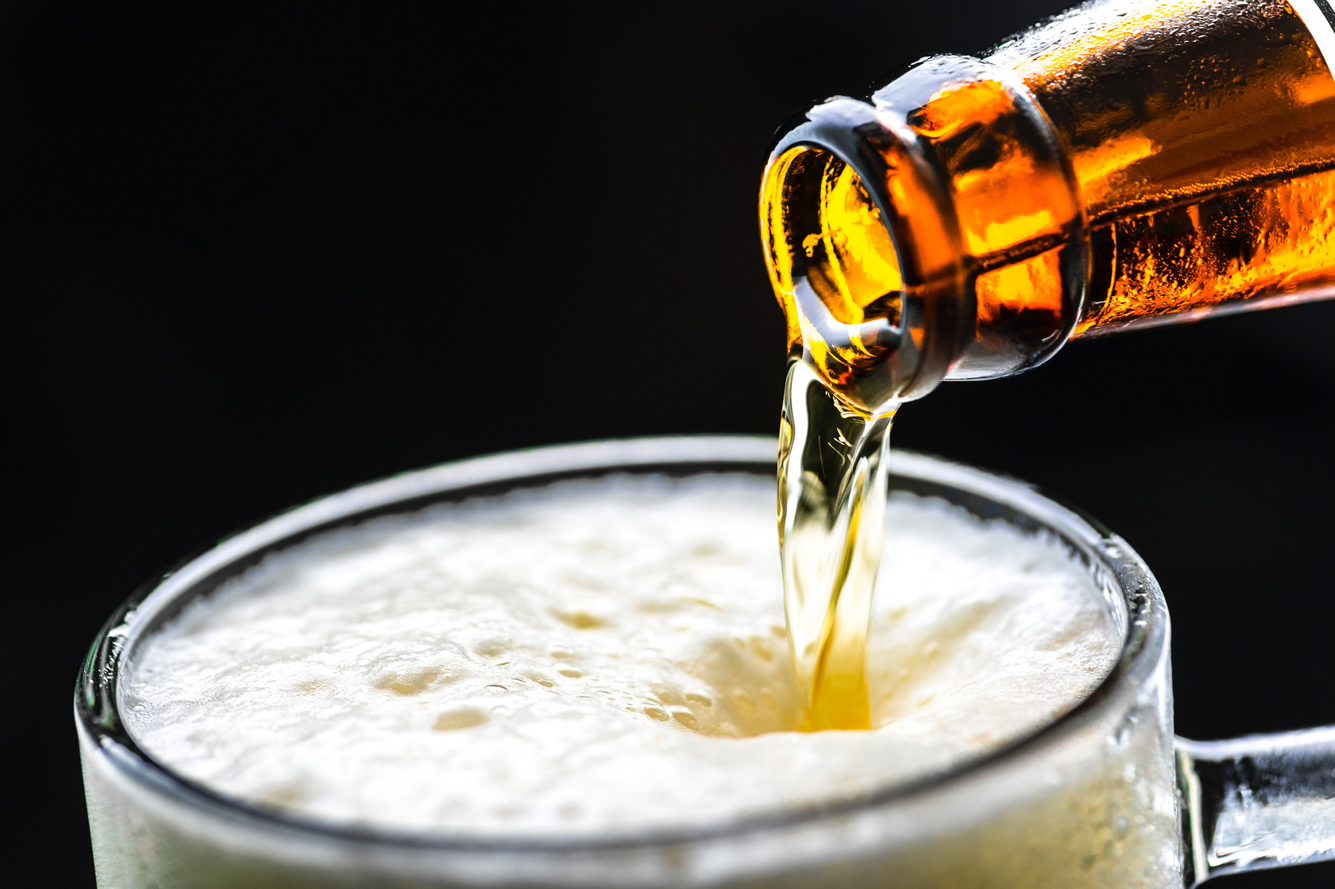
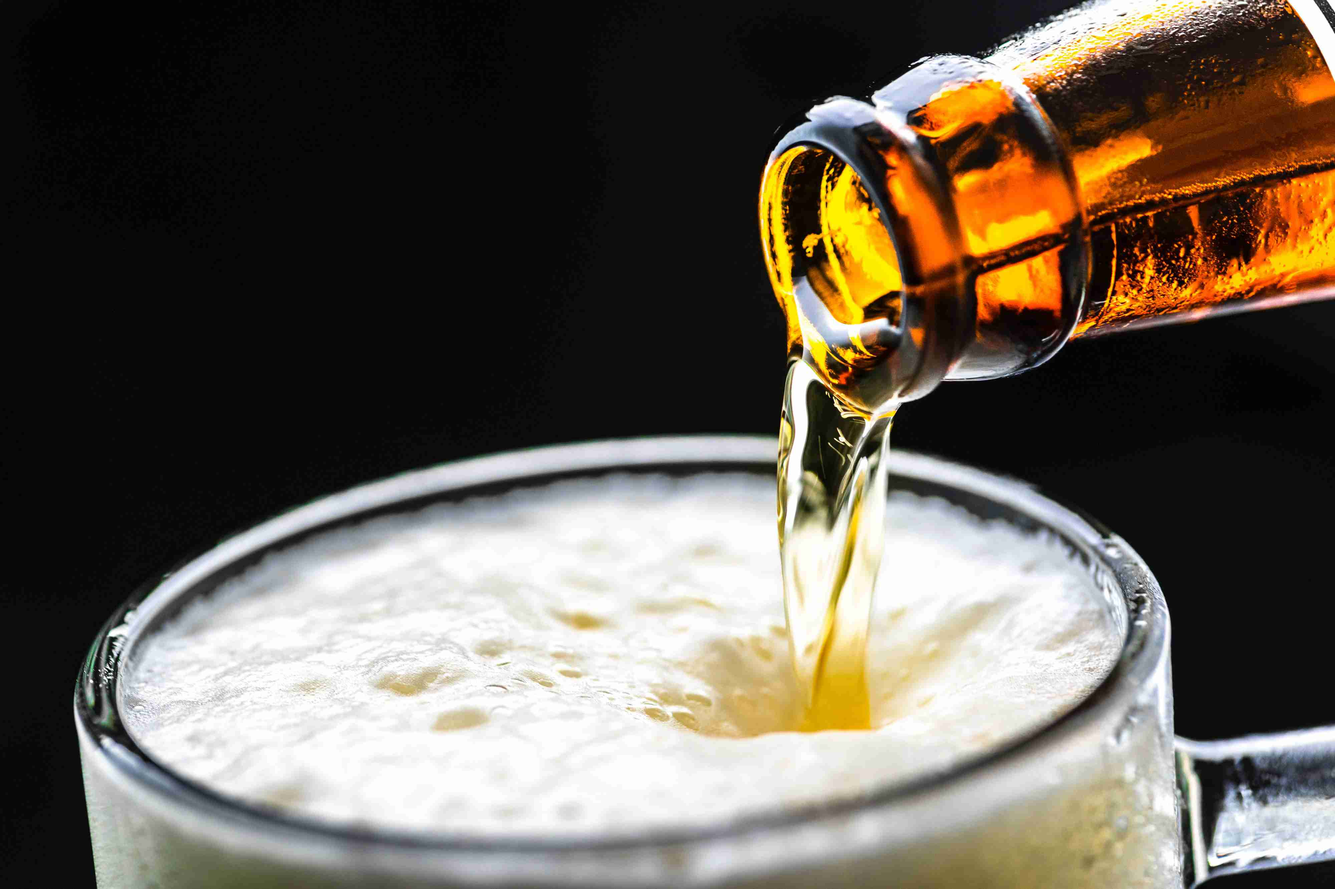
Copy files

diff --git a/webservice/frontend/webpack.config.js b/webservice/frontend/webpack.config.js
@@ -1,16 +1,17 @@
 const path = require('path');
 const CleanWebpackPlugin = require('clean-webpack-plugin');
+const CopyWebpackPlugin = require('copy-webpack-plugin');
 
 module.exports = {
+  mode: 'development',
   entry: './src/index.js',
   output: {
-    filename: 'main.js',
+    filename: '[name].bundle.js',
     path: path.resolve(__dirname, 'dist')
   },
   plugins: [
-    new CleanWebpackPlugin(['dist'], { 
-        exlude: ['index.html', 'static/']
-    })
+    new CopyWebpackPlugin(['static']),
+    new CleanWebpackPlugin(['dist'])
   ],
   module: {
       rules: [

diff --git a/webservice/frontend/src/index.css b/webservice/frontend/src/index.css
@@ -1,4 +1,4 @@
 body {
     background-image: url(./pouring.jpg);
-    background-position: center;
+    background-size: cover;
 }
